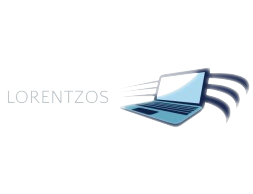
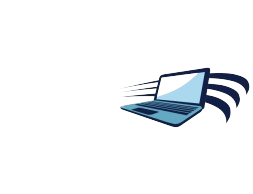
test23

diff --git a/index.html b/index.html
@@ -52,7 +52,7 @@
         <div class="container">
           <div class="hero-container row">
             <section class="hero-section">
-                <!-- <h2>LORENTZOS</h2> --><img class="logo" src="images/watermarklo.png"/>
+            <h2>LORENTZOS</h2><img class="logo" src="images/watermarklo.png"/>
             </section>
           </div>
           <div class="media-container row">
